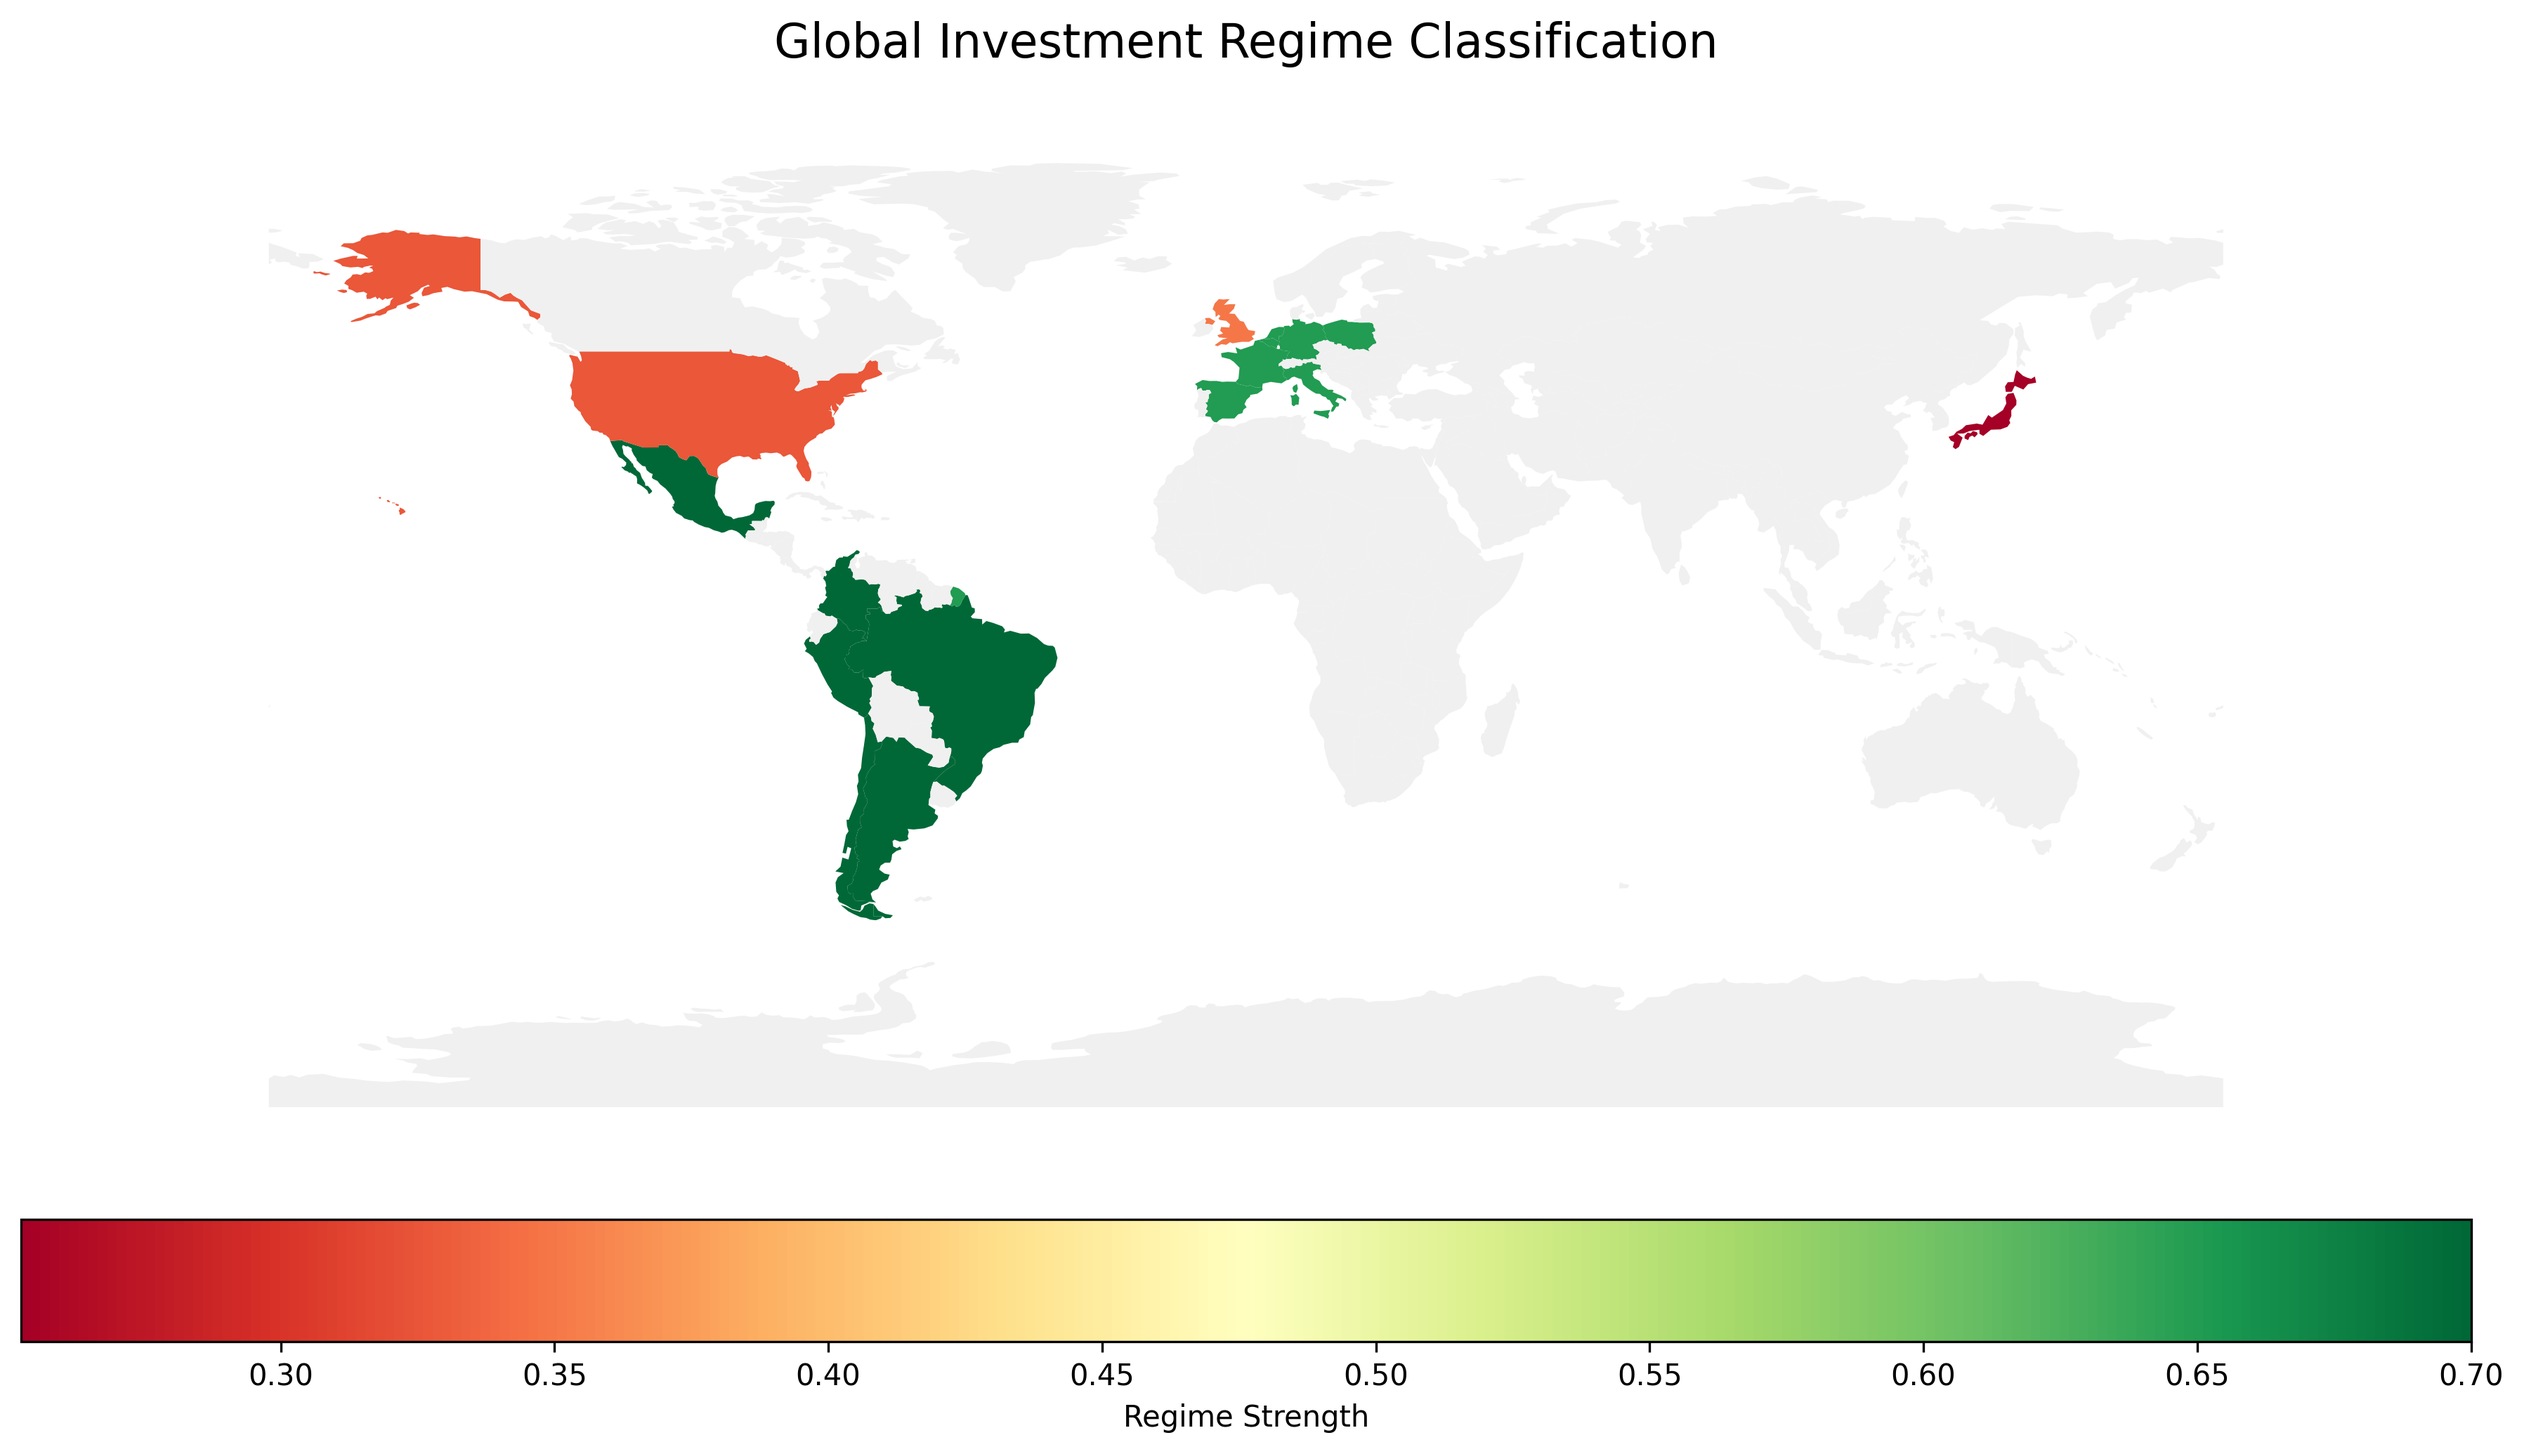
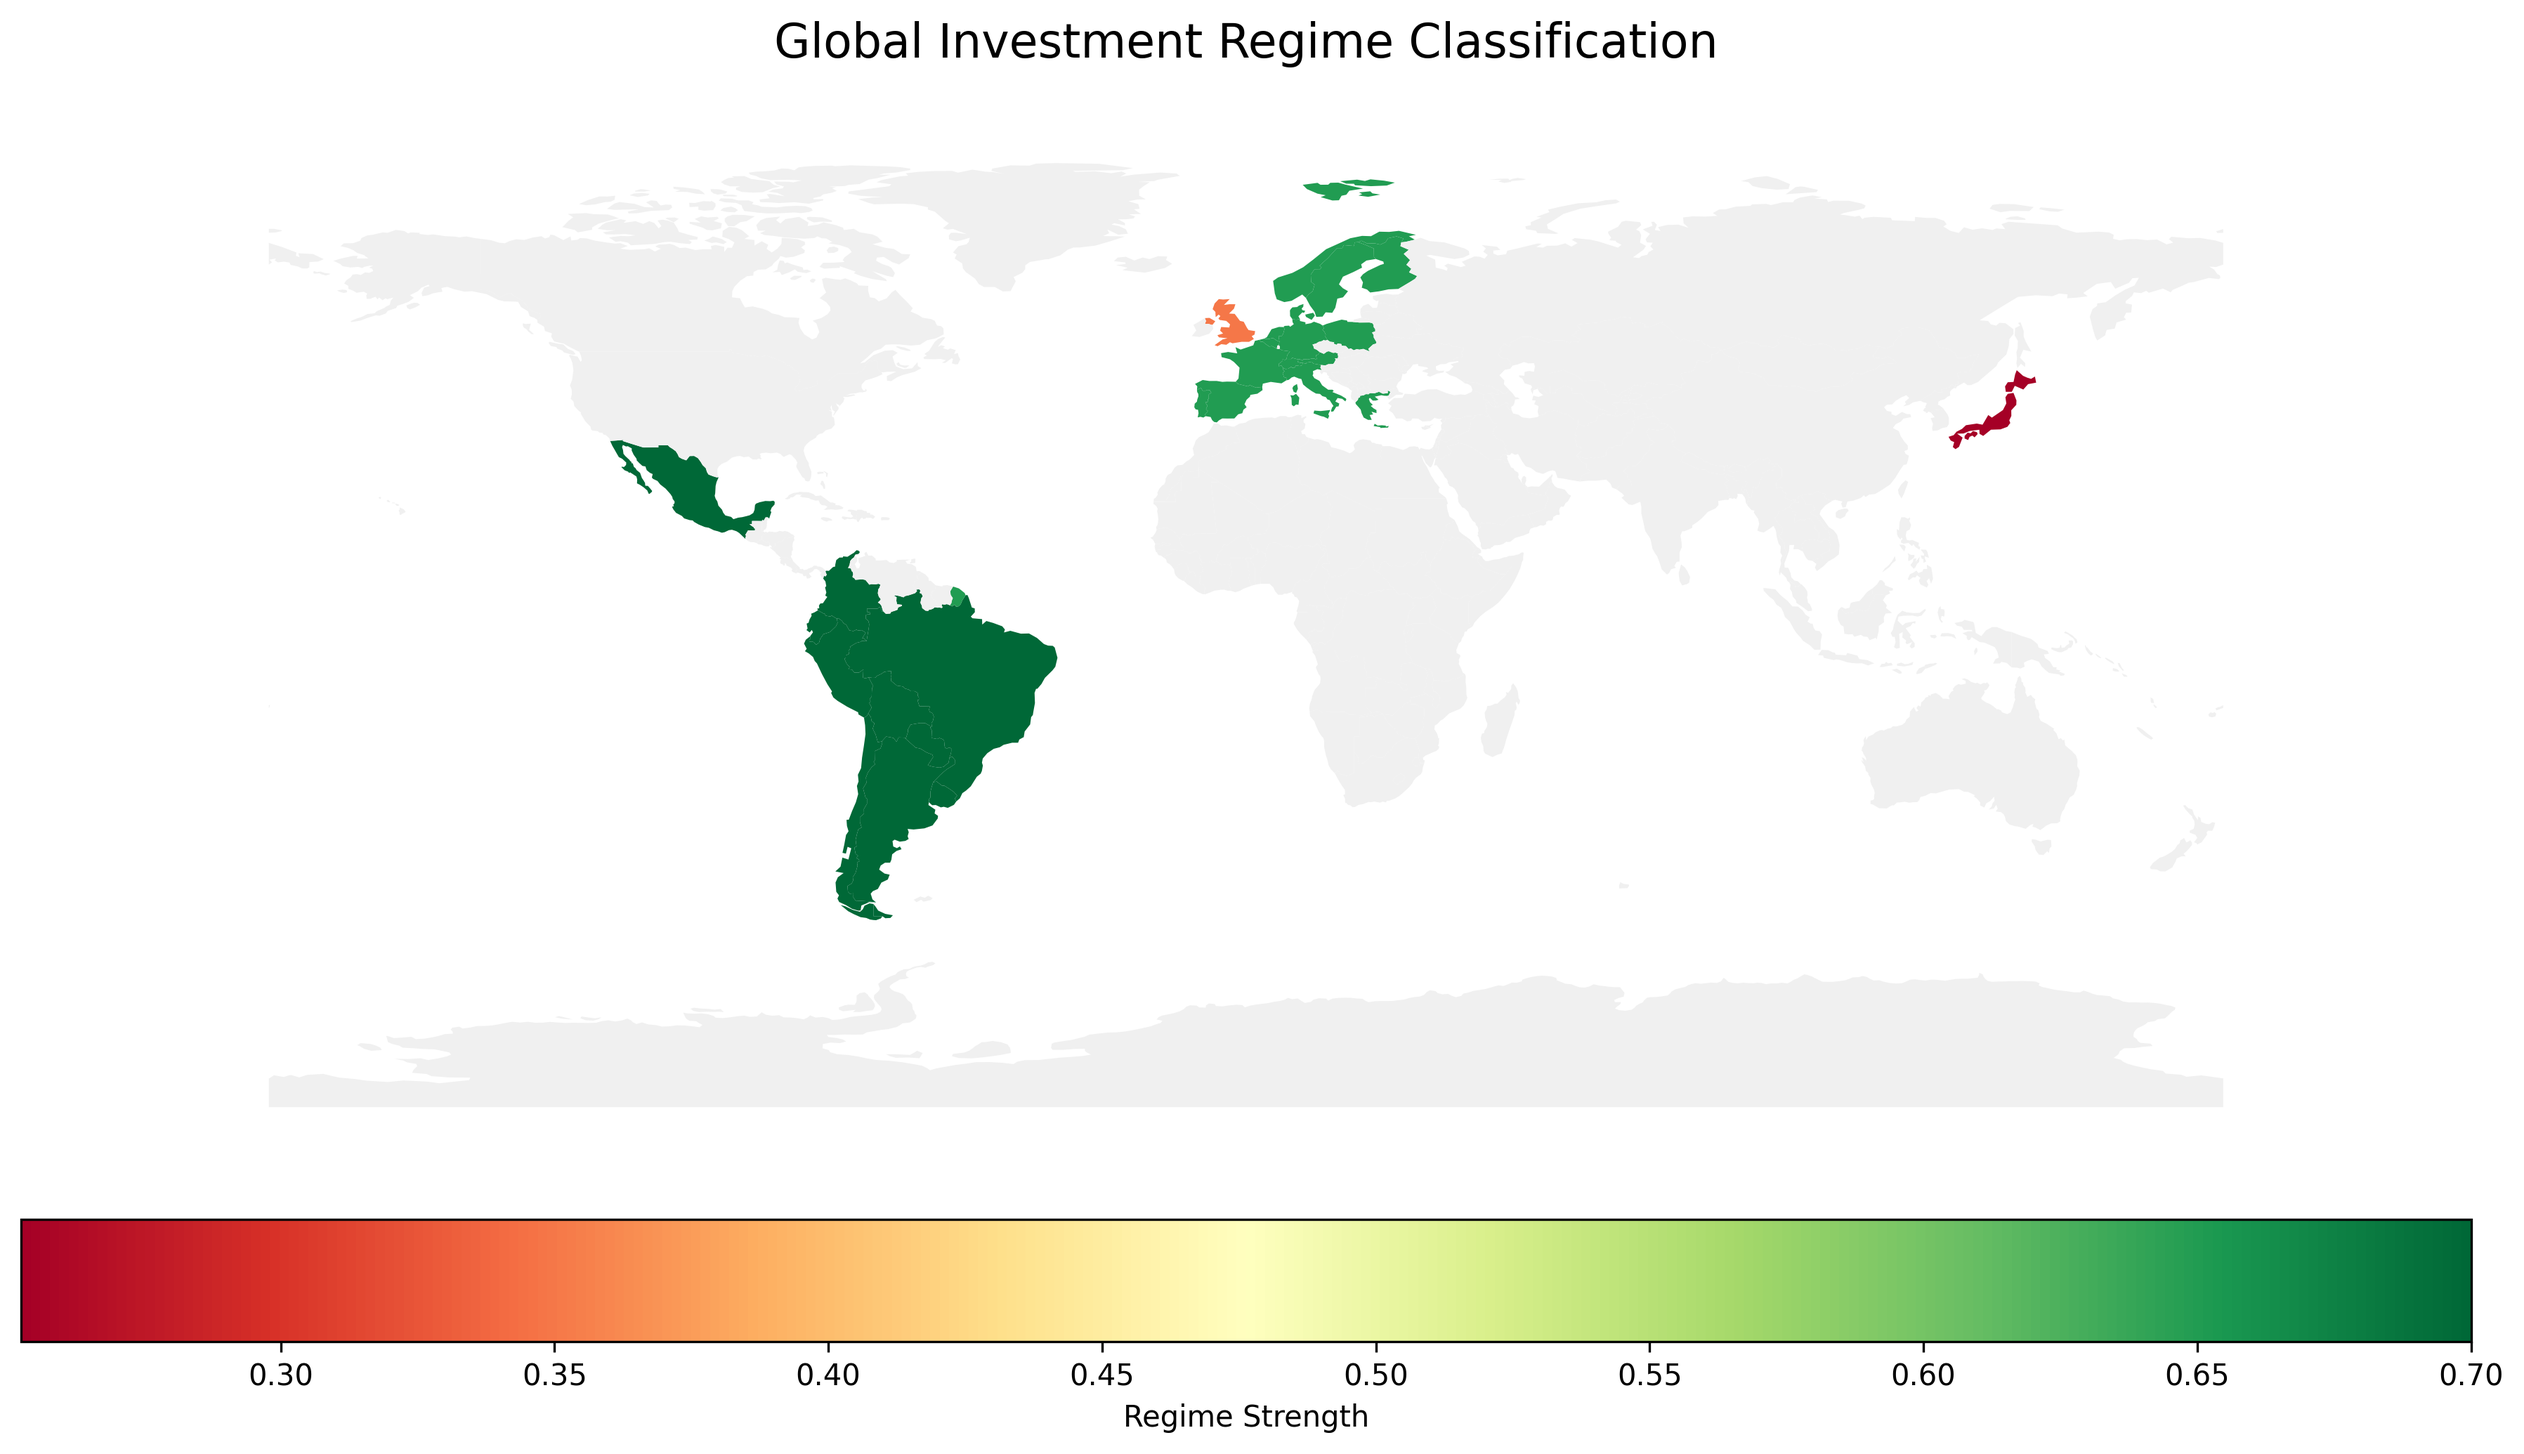
fixed map

diff --git a/main_model.py b/main_model.py
@@ -336,12 +336,13 @@ def render_regime_map(df: pd.DataFrame) -> None:
                 break
 
     region_map = {
-        "US": ["United States", "United States of America"],
-        "Europe": ["France", "Germany", "Italy", "Spain", "Poland", "Netherlands", "Belgium"],
-        "Japan": ["Japan"],
-        "UK": ["United Kingdom"],
-        "LatAm": ["Brazil", "Mexico", "Argentina", "Chile", "Colombia", "Peru"]
-    }
+    "US": ["United States of America"],
+    "Europe": ["France", "Germany", "Italy", "Spain", "Poland", "Netherlands", "Belgium", 
+               "Austria", "Portugal", "Greece", "Sweden", "Norway", "Finland", "Denmark", "Switzerland"],
+    "LatAm": ["Brazil", "Mexico", "Argentina", "Chile", "Colombia", "Peru", "Ecuador", "Bolivia", "Paraguay", "Uruguay"],
+    "UK": ["United Kingdom"],
+    "Japan": ["Japan"]
+}
     
     world['regime_score'] = np.nan
     for _, row in df.iterrows():
